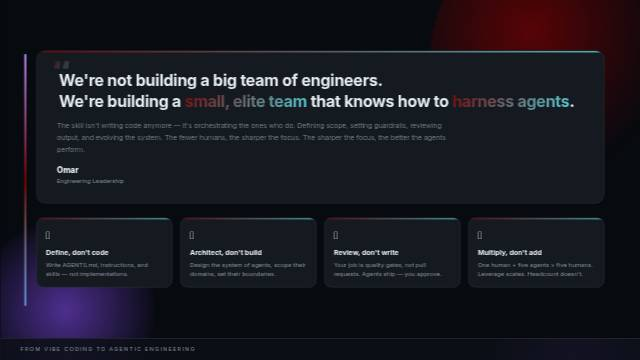
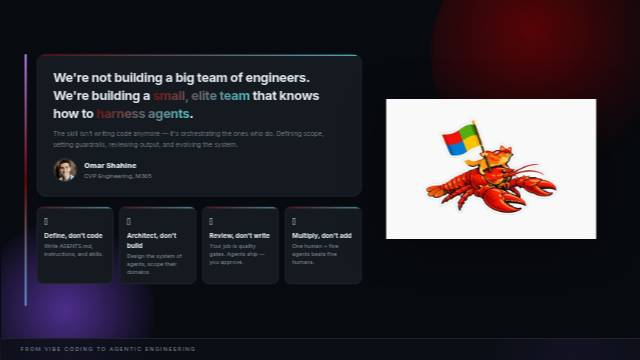
Auto-save from DECKIO — 2026-04-07T09:17

Changed region(s): [[0.0625, 0.1222, 0.9375, 0.825]]

diff --git a/src/slides/ClosingSlide.jsx b/src/slides/ClosingSlide.jsx
@@ -1,4 +1,6 @@
 import { BottomBar, Slide } from '@deckio/deck-engine'
+import omarPhoto from '../data/omar-photo.png'
+import lobsterMascot from '../data/lobster-mascot.png'
 import styles from './ClosingSlide.module.css'
 
 export default function ClosingSlide({ index, project }) {
@@ -9,43 +11,53 @@ export default function ClosingSlide({ index, project }) {
       <div className={`orb ${styles.orb2}`} />
 
       <div className={`${styles.body} content-frame content-gutter`}>
-        <div className={styles.quoteCard}>
-          <div className={styles.quoteIcon}>&ldquo;</div>
-          <blockquote className={styles.quote}>
-            We&apos;re not building a big team of engineers.<br />
-            We&apos;re building a <span className={styles.highlight}>small, elite team</span> that knows how to <span className={styles.highlight}>harness agents</span>.
-          </blockquote>
-          <p className={styles.elaboration}>
-            The skill isn&apos;t writing code anymore — it&apos;s orchestrating the ones who do. Defining scope, setting guardrails, reviewing output, and evolving the system. The fewer humans, the sharper the focus. The sharper the focus, the better the agents perform.
-          </p>
-          <div className={styles.author}>
-            <div className={styles.authorInfo}>
-              <span className={styles.authorName}>Omar</span>
-              <span className={styles.authorRole}>Engineering Leadership</span>
+        <div className={styles.columns}>
+          <div className={styles.left}>
+            <div className={styles.quoteCard}>
+              <blockquote className={styles.quote}>
+                {"We're not building a big team of engineers. We're building a "}
+                <span className={styles.highlight}>small, elite team</span>
+                {" that knows how to "}
+                <span className={styles.highlight}>harness agents</span>.
+              </blockquote>
+              <p className={styles.elaboration}>
+                {"The skill isn't writing code anymore \u2014 it's orchestrating the ones who do. Defining scope, setting guardrails, reviewing output, and evolving the system."}
+              </p>
+              <div className={styles.author}>
+                <img src={omarPhoto} alt="Omar Shahine" className={styles.authorPhoto} />
+                <div className={styles.authorInfo}>
+                  <span className={styles.authorName}>Omar Shahine</span>
+                  <span className={styles.authorRole}>CVP Engineering, M365</span>
+                </div>
+              </div>
+            </div>
+
+            <div className={styles.pillars}>
+              <div className={styles.pillar}>
+                <span className={styles.pillarIcon}>{"🎯"}</span>
+                <h3>{"Define, don't code"}</h3>
+                <p>Write AGENTS.md, instructions, and skills.</p>
+              </div>
+              <div className={styles.pillar}>
+                <span className={styles.pillarIcon}>{"🏗"}</span>
+                <h3>{"Architect, don't build"}</h3>
+                <p>Design the system of agents, scope their domains.</p>
+              </div>
+              <div className={styles.pillar}>
+                <span className={styles.pillarIcon}>{"🔍"}</span>
+                <h3>{"Review, don't write"}</h3>
+                <p>{"Your job is quality gates. Agents ship \u2014 you approve."}</p>
+              </div>
+              <div className={styles.pillar}>
+                <span className={styles.pillarIcon}>{"⚡"}</span>
+                <h3>{"Multiply, don't add"}</h3>
+                <p>One human + five agents beats five humans.</p>
+              </div>
             </div>
           </div>
-        </div>
 
-        <div className={styles.pillars}>
-          <div className={styles.pillar}>
-            <span className={styles.pillarIcon}>🎯</span>
-            <h3>Define, don't code</h3>
-            <p>Write AGENTS.md, instructions, and skills — not implementations.</p>
-          </div>
-          <div className={styles.pillar}>
-            <span className={styles.pillarIcon}>🏗</span>
-            <h3>Architect, don't build</h3>
-            <p>Design the system of agents, scope their domains, set their boundaries.</p>
-          </div>
-          <div className={styles.pillar}>
-            <span className={styles.pillarIcon}>🔍</span>
-            <h3>Review, don't write</h3>
-            <p>Your job is quality gates, not pull requests. Agents ship — you approve.</p>
-          </div>
-          <div className={styles.pillar}>
-            <span className={styles.pillarIcon}>⚡</span>
-            <h3>Multiply, don't add</h3>
-            <p>One human + five agents &gt; five humans. Leverage scales. Headcount doesn&apos;t.</p>
+          <div className={styles.right}>
+            <img src={lobsterMascot} alt="Lobster mascot" className={styles.mascot} />
           </div>
         </div>
       </div>

diff --git a/src/slides/ClosingSlide.module.css b/src/slides/ClosingSlide.module.css
@@ -34,17 +34,43 @@
   z-index: 10;
   display: flex;
   flex-direction: column;
-  gap: 28px;
+  flex: 1;
+  min-height: 0;
+}
+
+.columns {
+  display: grid;
+  grid-template-columns: 1fr 40%;
+  gap: 32px;
+  flex: 1;
+  min-height: 0;
+  align-items: center;
+}
+
+.left {
+  display: flex;
+  flex-direction: column;
+  gap: 20px;
   justify-content: center;
+}
+
+.highlight {
+  background: linear-gradient(135deg, var(--accent), var(--cyan));
+  -webkit-background-clip: text;
+  -webkit-text-fill-color: transparent;
+  background-clip: text;
 }
 
 .quoteCard {
   background: var(--secondary);
   border: 1px solid var(--border);
   border-radius: 18px;
-  padding: 36px 40px;
+  padding: 28px 32px;
   position: relative;
   overflow: hidden;
+  display: flex;
+  flex-direction: column;
+  gap: 12px;
 }
 
 .quoteCard::before {
@@ -58,51 +84,35 @@
   opacity: 0.8;
 }
 
-.quoteIcon {
-  font-size: 64px;
-  font-weight: 900;
-  line-height: 0.6;
-  background: linear-gradient(135deg, var(--accent), var(--cyan));
-  -webkit-background-clip: text;
-  -webkit-text-fill-color: transparent;
-  background-clip: text;
-  opacity: 0.4;
-  position: absolute;
-  top: 20px;
-  left: 28px;
-}
-
 .quote {
-  font-size: clamp(22px, 2.5vw, 32px);
+  font-size: clamp(18px, 2vw, 26px);
   font-weight: 700;
-  line-height: 1.35;
+  line-height: 1.4;
   letter-spacing: -0.5px;
   color: var(--foreground);
   margin: 0;
-  padding-left: 4px;
-}
-
-.highlight {
-  background: linear-gradient(135deg, var(--accent), var(--cyan));
-  -webkit-background-clip: text;
-  -webkit-text-fill-color: transparent;
-  background-clip: text;
 }
 
 .elaboration {
-  font-size: 14px;
+  font-size: 13px;
   font-weight: 300;
   color: var(--muted-foreground);
-  line-height: 1.7;
-  margin-top: 14px;
-  max-width: 800px;
+  line-height: 1.65;
 }
 
 .author {
   display: flex;
   align-items: center;
   gap: 14px;
-  margin-top: 18px;
+  margin-top: 4px;
+}
+
+.authorPhoto {
+  width: 48px;
+  height: 48px;
+  border-radius: 50%;
+  object-fit: cover;
+  border: 2px solid var(--border);
 }
 
 .authorInfo {
@@ -111,7 +121,7 @@
 }
 
 .authorName {
-  font-size: 16px;
+  font-size: 15px;
   font-weight: 800;
   color: var(--foreground);
 }
@@ -125,7 +135,7 @@
 .pillars {
   display: grid;
   grid-template-columns: repeat(4, 1fr);
-  gap: 16px;
+  gap: 12px;
 }
 
 .pillar {
@@ -133,11 +143,11 @@
   overflow: hidden;
   background: var(--secondary);
   border: 1px solid var(--border);
-  border-radius: 14px;
-  padding: 18px;
+  border-radius: 12px;
+  padding: 14px;
   display: flex;
   flex-direction: column;
-  gap: 6px;
+  gap: 4px;
 }
 
 .pillar::before {
@@ -152,17 +162,31 @@
 }
 
 .pillarIcon {
-  font-size: 22px;
+  font-size: 20px;
 }
 
 .pillar h3 {
-  font-size: 14px;
+  font-size: 13px;
   font-weight: 700;
   color: var(--foreground);
 }
 
 .pillar p {
-  font-size: 12px;
+  font-size: 11px;
   color: var(--muted-foreground);
-  line-height: 1.5;
+  line-height: 1.45;
+}
+
+.right {
+  display: flex;
+  align-items: center;
+  justify-content: center;
+  min-height: 0;
+}
+
+.mascot {
+  width: 100%;
+  max-width: 420px;
+  height: auto;
+  filter: drop-shadow(0 10px 40px rgba(0, 0, 0, 0.4));
 }
